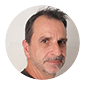
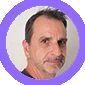
About me

Changed region(s): [[0.0, 0.0, 1.0, 1.0]]

diff --git a/src/components/Navbar.js b/src/components/Navbar.js
@@ -8,6 +8,7 @@ const Navbar = () => {
         <nav className="navbar navbar-expand-lg navbar-light bg-dark">
             <div className="container">
                 <a className="navbar-brand" href="#"><img className="photo" src={myPhoto} alt="Ma photo" /></a>
+                <p className="name">Frédéric Iniesta - <span style={{color:"rgb(144, 106, 248)"}} >Portfolio</span></p>
                 <button className="navbar-toggler" type="button" data-toggle="collapse" data-target="#navbarSupportedContent" aria-controls="navbarSupportedContent" aria-expanded="false" aria-label="Toggle navigation">
                     <FontAwesomeIcon icon={faBars} style={{color: "#fff"}} />
                 </button>
@@ -15,13 +16,16 @@ const Navbar = () => {
                 <div className="collapse navbar-collapse" id="navbarSupportedContent">
                     <ul className="navbar-nav ms-auto">
                         <li className="nav-item active">
+                            <a className="nav-link" href="#">À propos de moi</a>
+                        </li>
+                        <li className="nav-item">
                             <a className="nav-link" href="#">Print</a>
                         </li>
                         <li className="nav-item">
                             <a className="nav-link" href="#">Web</a>
                         </li>
                         <li className="nav-item">
-                            <a className="nav-link" href="#">Editions</a>
+                            <a className="nav-link" href="#">Éditions</a>
                         </li>
                         <li className="nav-item">
                             <a className="nav-link" href="#">Contact</a>

diff --git a/src/App.css b/src/App.css
@@ -1,7 +1,17 @@
+:root {
+  --violet: rgb(144, 106, 248);
+}
+
 /* NAVBAR */
 
 .photo {
   border-radius: 50%;
+}
+
+.name {
+  color: #fff !important;
+  font-size: 25px;
+  margin-top: 20px;
 }
 
 nav {
@@ -21,7 +31,7 @@ nav ul li {
 }
 
 .navbar-nav > li > a:hover, .navbar-nav > li > a:focus {
-  border-top: 3px solid #fff;
+  border-top: 3px solid var(--violet);
 }
 
 /* HEADER */
@@ -46,7 +56,7 @@ nav ul li {
 
 .main-info h1 {
   margin-top: 50px;
-  color: #fff;
+  color: var(--violet);
 }
 
 .typed-text {
@@ -56,7 +66,7 @@ nav ul li {
 }
 
 .btn-header {
-  border: solid 1px #fff;
+  border: solid 1px var(--violet);
   border-radius: 5px;
   padding: 10px;
   margin-top: 30px;
@@ -67,6 +77,8 @@ nav ul li {
 }
 
 .btn-header:hover {
+  color: var(--violet);
+  font-weight: bold;
   background-color: #fff;
   transition: 0.2s ease-in-out;
 }
@@ -87,4 +99,29 @@ nav ul li {
   height: 100vh;
   width: 100vw;
   z-index: 1;
+}
+
+/* ABOUT ME */
+
+.photo-wrap {
+  display: flex;
+  justify-content: center;
+  align-items: center;
+}
+
+.profile-img {
+  width: 16rem;
+  border-radius: 50%;
+  padding: 5px;
+  border: solid 1px var(--violet);
+}
+
+@media(max-width: 468px) {
+  .profile-img {
+    width: 10rem;
+  }
+}
+
+.about-heading {
+  color: var(--violet);
 }

diff --git a/src/components/AboutMe.js b/src/components/AboutMe.js
@@ -1,0 +1,24 @@
+import React from 'react';
+import author from "../images/Photo-Fred2.png"
+
+const AboutMe = () => {
+    return (
+        <div className="container py-5">
+            <div className="row">
+                <div className="col-lg-6 col-xm-12">
+                    <div className="photo-wrap mb-5">
+                        <img className="profile-img" src={author} alt="photo de moi" />
+                    </div>
+                </div>
+                <div className="col-lg-6 col-xm-12">
+                    <h1 className="about-heading">À propos de moi</h1>
+                    <p>
+                        Lorem ipsum dolor sit amet consectetur adipisicing elit. Distinctio, error? Et maxime magnam laudantium architecto suscipit eligendi! Soluta facilis perspiciatis beatae ipsam ducimus asperiores assumenda! Quos nesciunt facilis ipsa neque.
+                    </p>
+                </div>
+            </div>
+        </div>
+    );
+};
+
+export default AboutMe;

diff --git a/src/components/Header.js b/src/components/Header.js
@@ -5,7 +5,7 @@ const Header = () => {
     return (
         <div className="header-wraper">
             <div className="main-info">
-                <h1>Développement Web & Infographie</h1>
+                <h1>Développeur Web & Infographiste</h1>
                 <Typed 
                     className="typed-text"
                     strings={["Web design", "Développement Web", "Frontend", "Backend", "Infographie", "Mise en page", "Design"]}

diff --git a/src/App.js b/src/App.js
@@ -3,6 +3,7 @@ import 'bootstrap/dist/css/bootstrap.min.css';
 import Particles from 'react-particles-js';
 import Navbar from './components/Navbar';
 import Header from './components/Header';
+import AboutMe from './components/AboutMe';
 
 function App() {
   return (
@@ -29,6 +30,7 @@ function App() {
       />
       <Navbar />
       <Header />
+      <AboutMe />
     </>
   );
 }
